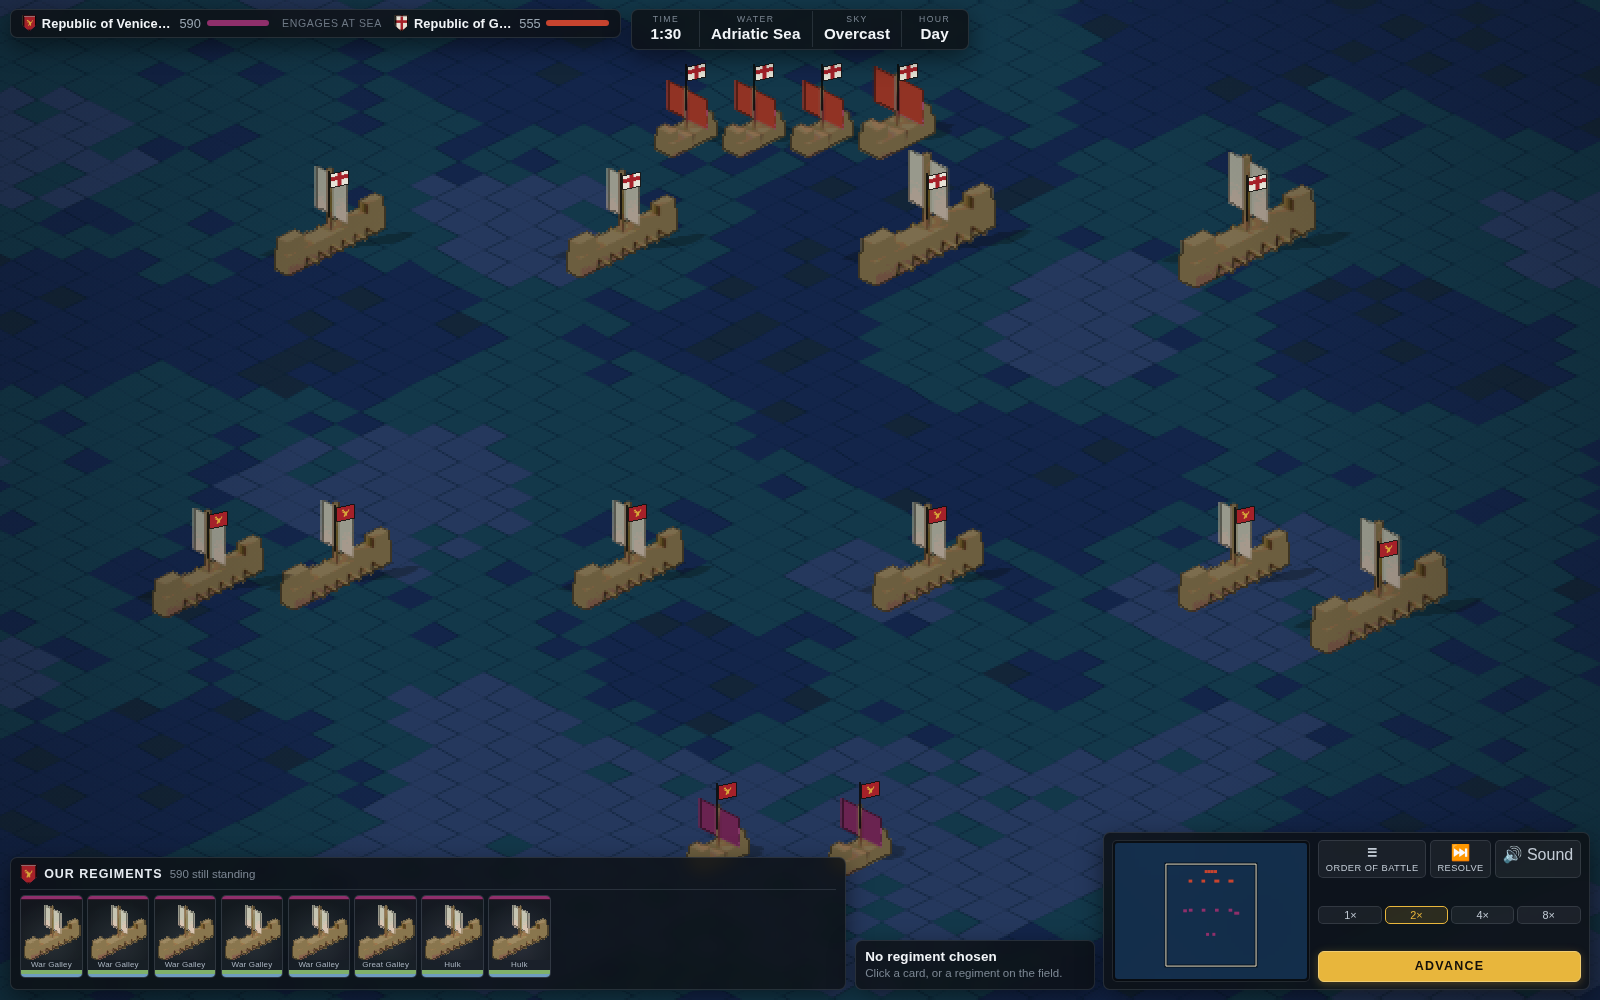
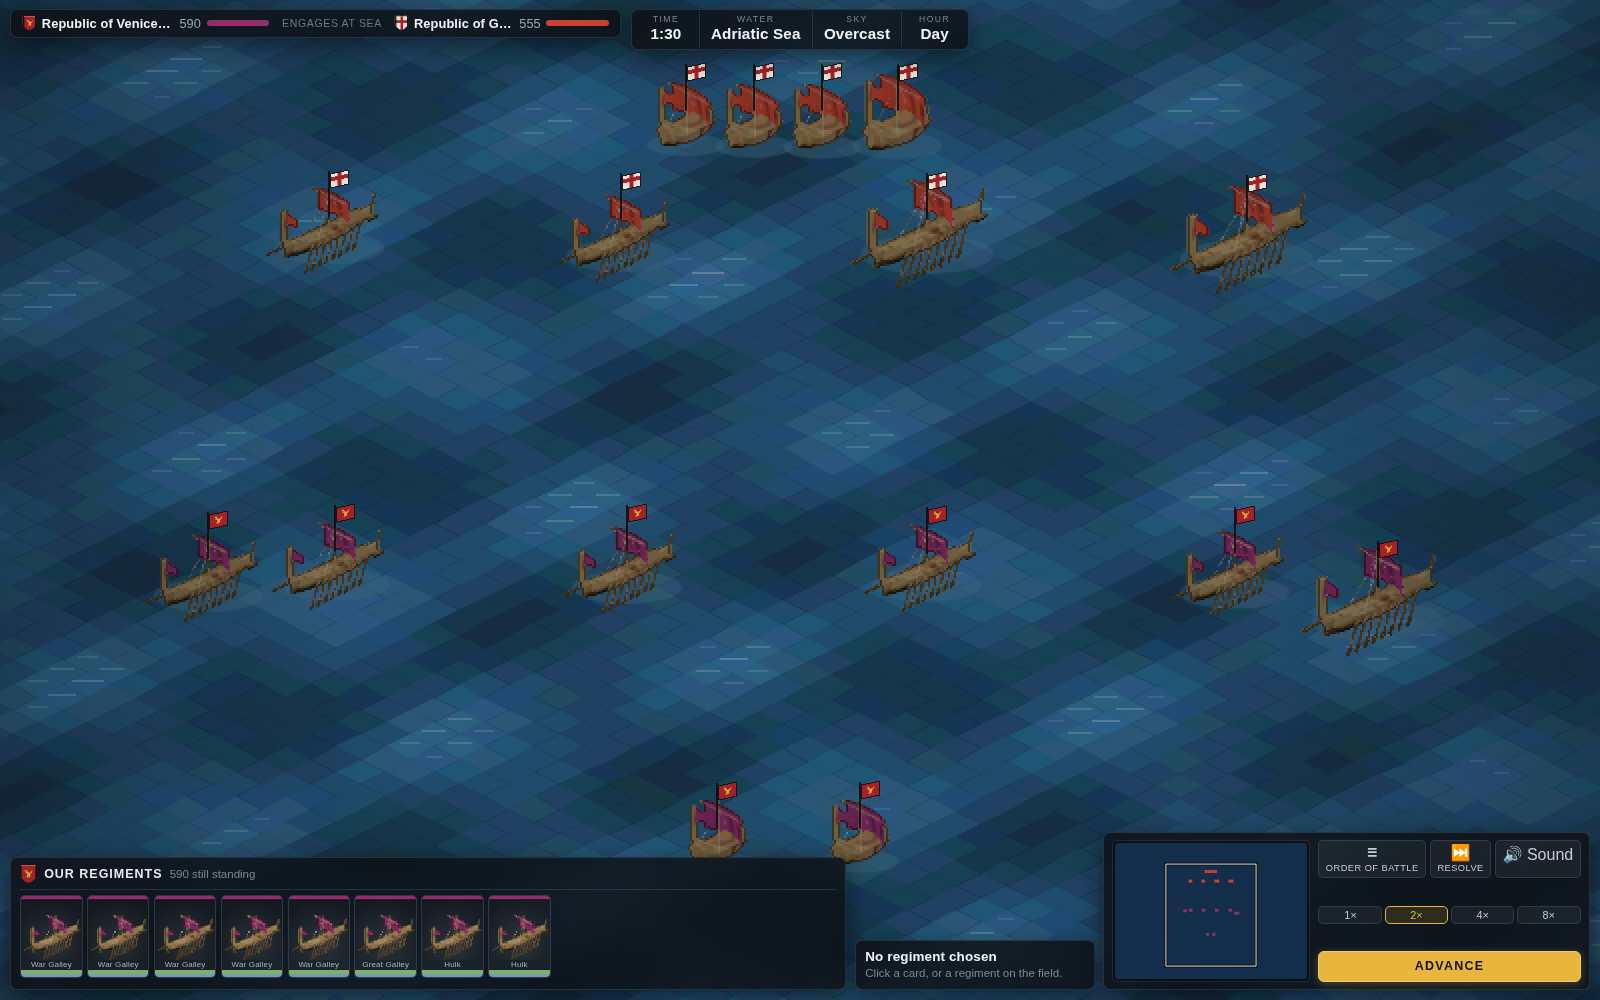
A trailer, recorded rather than made
`npm run trailer` opens a headless browser on the development URLs the
README already lists, lets the game play by itself, and photographs it
through the browser's own screencast. Nothing in it is re-enacted,
composited or sped up. ffmpeg cuts the shots together at the end, at the
frame rate the browser actually managed rather than one assumed in advance —
a battle under load paints fewer frames than a map sitting still, and the
cut should be honest about which.

Three things came out of making it that are worth writing down.

**The campaign map draws a continent in a sixth of a second.** Measured, not
guessed: a hundred and fifty milliseconds at the zoom that holds Europe, a
hundred over Italy. A drag has to be fed a mouse event for every frame it is
to draw, so thirty events a second pile up a queue the main thread never
gets out of and the compositor finds a moment to publish about twice a
second. The shots that move use the map's own edge pan instead, which is a
`requestAnimationFrame` loop and leaves the gaps a compositor needs; the
wide shot of Europe is held still, which is what it is best at anyway. The
draw itself wanting to be faster is a separate job and not this one.

**A screen that is not moving is painted once and never again**, so the
browser sends one frame and stops. That is not a fault to work around — a
still is what the front of the game and an open dossier are — so the one
frame is held for as long as the shot asks for.
[…]

diff --git a/README.md b/README.md
@@ -82,6 +82,9 @@ fight at sea.
   | Ploughland | belongs to the field and not to the tile: a block of tiles ploughed one way, the next block across it, and an unploughed baulk between them with whatever grew in it. Fixed to the tile, every tile turned its own way and a mile of farmland averaged out into one grey hatch |
   | Height | has the last word on the ground: above the treeline it is bare rock and above that snow, and the line wanders, because one drawn straight across a continent is a contour and not a treeline |
   | The shore | a shelf of pale water wherever the sea touches land, a strand of sand wherever the land touches sea, and the real Natural Earth coast drawn over the join |
+  | The sea | three trains of waves at different angles, lengths and speeds, summed. One would be corrugated iron and two would beat against each other in a pattern you can see; three never quite repeat, which is what open water looks like. Where a wave gets too steep for itself it breaks and shows white along its back. A sea fight is drawn on a lighter ladder than the map's, because the map's water has to stay behind a continent and a sea fight has no land in it |
+  | Hulls | lofted from a line of cross-sections rather than built out of boxes: drawn to a point at both ends, widest amidships, with a deck line that sweeps up fore and aft and a dark wale along the sheer. A galley has a ram, a gangway between the benches and eight oars a side raked aft into the water; a round ship has castles fore and aft. Both carry the realm's colours on the sail, because a fleet seen from a map of Europe is four marks on the water and the sail is the only part of one big enough to hold a colour |
+  | Riding it | a ship sits on the swell the rest of the field is drawn from, so a line of them rises and falls along the wave instead of standing on it like models on a shelf, and the water under each hull is disturbed |
   | Rivers | the great ones, drawn: the Rhine, the Danube, the Dnieper, the Volga, the Nile. A river is the strongest line in a landscape and the eye finds everything else from it |
   | Frontiers | chained into continuous runs before they are stroked, so a corner is a corner, and the whole lot drawn on its own plate and cut to the coastline — a border running across open water is the one thing that most gives away a map drawn from a diagram |
   | Arms | every realm bears its own, drawn from a blazon rather than loaded from a folder of pictures: beside the name of every town it holds, on the banner over every army it has in the field, on its crest in the chrome, and on the wall of shields at the front of the game |
@@ -547,6 +550,14 @@ npm run typecheck    # tsc --noEmit, strict
 npm run build        # typecheck, then bundle
 npm run diagnose     # two hundred turns, and what came out of them
 ```
+
+`npm run trailer` records one, out of the game actually running: a headless
+browser is opened on the development URLs above, left to play by itself, and
+photographed through the browser's own screencast while a script dispatches
+the mouse events a person would have made — a drag across Europe, a turn of
+the wheel. Nothing in it is re-enacted or composited. ffmpeg cuts the shots
+together at the end, at the frame rate the browser actually managed rather
+than one assumed in advance.
 
 Two aids for the part of the work that only an eye can judge. The sprite
 sheet is twelve hundred renders and well over an hour, so
